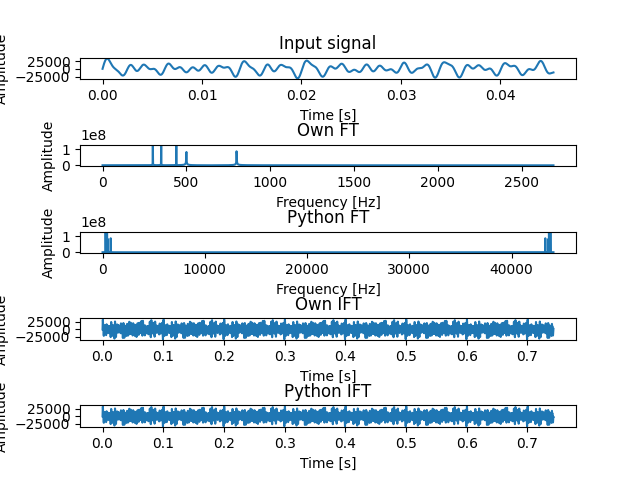
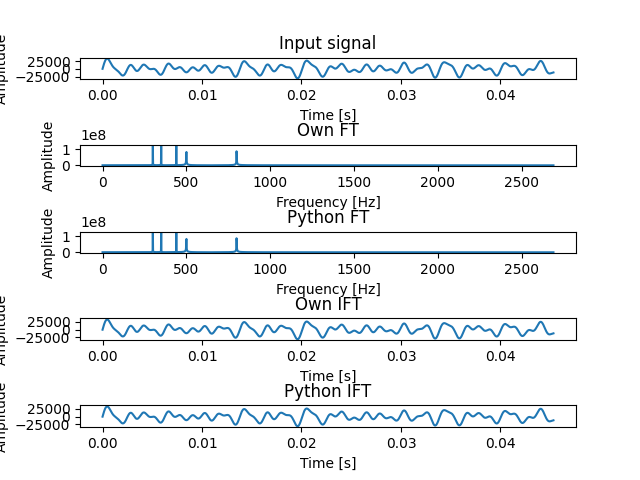
GUI progress

diff --git a/python_utils/equalizerGUI.py b/python_utils/equalizerGUI.py
@@ -9,9 +9,15 @@ def openURL():
     webbrowser.open('https://github.com/igrell/audio_equalizer')
 
 
-def getFreqRanges(scalesNo):
+def getFreqRanges(bandsNo):
     freqMin, freqMax = 20, 20000
-    freqRanges = np.linspace(freqMin, freqMax, scalesNo + 1)  # TODO correct by appropriate function
+    if bandsNo == 10:  # ISO standard for 10 bands
+        freqRanges = [20, 40, 80, 160, 320, 640, 1280, 2560, 5120, 10240, 20000]
+    elif bandsNo == 31:  # ISO standard for 31 bands
+        freqRanges = [20, 25, 31.5, 40, 50, 63, 80, 100, 125, 160, 200, 250, 315, 400, 500, 630, 800, 1000, 1250, 1600,
+                      2000, 2500, 3150, 4000, 5000, 6300, 8000, 10000, 12500, 16000, 20000]
+    else:
+        freqRanges = np.linspace(freqMin, freqMax, bandsNo + 1)  # if no standard applies, make bandwidth constant
     return freqRanges
 
 
@@ -29,16 +35,16 @@ def correlateValues(scale, inputField):
 
 if __name__ == '__main__':
     # Constants
-    scalesNo = 10
+    bandsNo = 10
     amplifyFrom = 12
     amplifyTo = -12
     freqMin = 20
     freqMax = 20000
-    window_width = int((78 * scalesNo))  # scale window according to scalesNo; TODO improve
+    window_width = int((78 * bandsNo))  # scale window according to bandsNo; TODO improve
     window_height = 400
 
     window = tk.Tk()
-    window.title('Equalizer')
+    window.title('Very cool equalizer')
 
     # Set up window icon
     ico = Image.open('equalizer_icon.png')
@@ -75,7 +81,7 @@ if __name__ == '__main__':
     inputFields = []
     labels = []
 
-    for i in range(0, scalesNo):
+    for i in range(0, bandsNo):
         sliderVar = tk.DoubleVar(value=0.0)
         scale = Scale(window, from_=amplifyFrom, to=amplifyTo, variable=sliderVar, resolution=0.1, length=150, showvalue=True)
         inputField = Entry(window, width=4, textvariable=sliderVar)
@@ -84,7 +90,7 @@ if __name__ == '__main__':
         inputFields.append(inputField)
 
     # Frequency ranges for sliders
-    freqRanges = np.linspace(freqMin, freqMax, scalesNo + 1)  # TODO correct by appropriate function
+    freqRanges = getFreqRanges(bandsNo)
     for i in range(0, len(freqRanges) - 1):
         labelUpVar, labelDownVar = StringVar(), StringVar()
         labelUp = Label(window, textvariable=labelUpVar)
@@ -94,13 +100,11 @@ if __name__ == '__main__':
         labels.append([labelUp, labelDown])
 
     # Grid sliders
-    for i in range(0, scalesNo):
+    for i in range(0, bandsNo):
         labels[i][0].grid(row=0, column=i)
         sliders[i].grid(row=1, column=i, padx=10)
         inputFields[i].grid(row=2, column=i)
         labels[i][1].grid(row=3, column=i)
-
-    print(sliders[2].get())
 
     # Set constant window size
     window.minsize(window_width, window_height)

diff --git a/python_utils/plotTransform.py b/python_utils/plotTransform.py
@@ -11,56 +11,55 @@ def parseDataFile(filename):
 
 
 if __name__ == '__main__':
-    samplingInterval, fftData = parseDataFile('../results/fft_data.txt')
+    tmp, fftData = parseDataFile('../results/fft_data.txt')
     samplingNo = len(fftData)
 
-    tmp, ifftData = parseDataFile('../results/ifft_data.txt')
+    tmp1, ifftData = parseDataFile('../results/ifft_data.txt')
 
     samplingRate, signalData = parseDataFile('../datafiles/data.txt')
     signalData = signalData[:samplingNo]  # cut data to the nearest power of 2
     length = samplingNo / samplingRate
 
-    time = np.linspace(0, length, samplingNo)
-    # time = np.arange(0, length, samplingInterval)
-    # print(time)
-
+    # Python FFTs
     pythonFft = np.fft.fft(signalData)
-    samplePoints = np.arange(samplingNo)
-    frequencies = samplePoints / length
-
     pythonIfft = np.fft.ifft(pythonFft)
 
+    # Frequencies for plotting
+    samplingPoints = np.arange(samplingNo)
+    frequencies = samplingPoints / length
 
+    # Time for plotting
+    time = np.linspace(0, length, samplingNo)
+    delim = 2000  # restrict plot to some first points for visual clarity; make -1 for all data
+
+    # Plots
     figure, axis = plt.subplots(5, 1)
     plt.subplots_adjust(hspace=3)
 
     axis[0].set_title('Input signal')
-    axis[0].plot(time[:2000], signalData[:2000])
+    axis[0].plot(time[:delim], signalData[:delim])
     axis[0].set_xlabel('Time [s]')
     axis[0].set_ylabel('Amplitude')
 
     axis[1].set_title('Own FT')
-    axis[1].plot(frequencies[:2000], fftData[:2000])
+    axis[1].plot(frequencies[:delim], fftData[:delim])
     axis[1].set_xlabel('Frequency [Hz]')
     axis[1].set_ylabel('Amplitude')
 
     axis[2].set_title('Python FT')
-    axis[2].plot(frequencies, abs(pythonFft))
+    axis[2].plot(frequencies[:delim], abs(pythonFft[:delim]))
     axis[2].set_xlabel('Frequency [Hz]')
     axis[2].set_ylabel('Amplitude')
 
     axis[3].set_title('Own IFT')
-    axis[3].plot(time, ifftData)
+    axis[3].plot(time[:delim], ifftData[:delim])
     axis[3].set_xlabel('Time [s]')
     axis[3].set_ylabel('Amplitude')
 
     axis[4].set_title('Python IFT')
-    axis[4].plot(time, pythonIfft)
+    axis[4].plot(time[:delim], pythonIfft[:delim])
     axis[4].set_xlabel('Time [s]')
     axis[4].set_ylabel('Amplitude')
 
     plt.savefig('../results/transform_plot.png')
     plt.show()
-
-    # for i in range(0, 2000):
-    #     print(abs(python_fft[i])
